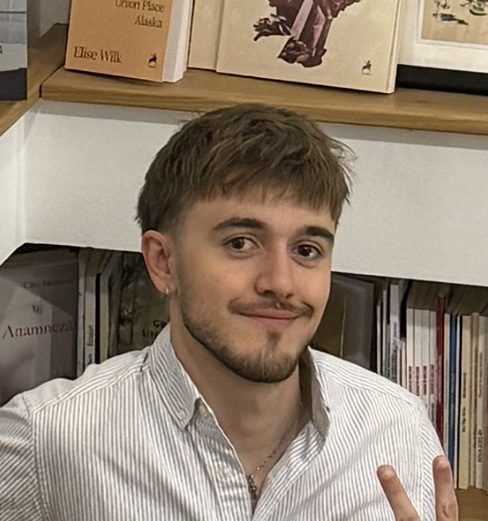
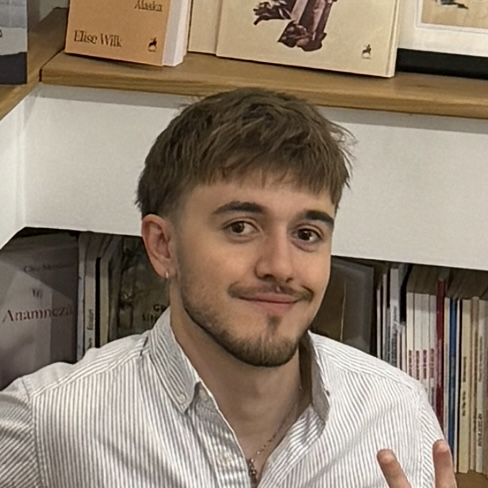
hero section improvements

diff --git a/src/sections/Hero.tsx b/src/sections/Hero.tsx
@@ -14,18 +14,18 @@ export const HeroSection = () => {
         <h1 className="font-serif text-3xl text-center mt-8 tracking-wide">
           Balteanu Andrei
         </h1>
-        <p>
+        <p className="mt-4 text-center text-white/60">
           Specialized in developing responsive web applications and engaging
           user interfaces using modern technologies.
         </p>
-        <div>
-          <button>
-            <span>Explore My Work</span>
-            <ArrowDown />
+        <div className="flex flex-col items-center mt-8 gap-4">
+          <button className="inline-flex items-center gap-2 border border-white/15 px-6 h-12 rounded-xl">
+            <span className="font-semibold">Explore My Work</span>
+            <ArrowDown className="size-4" />
           </button>
-          <button>
-            <span></span>
-            <span>Lets Connect</span>
+          <button className="inline-flex items-center gap-2 border border-white bg-white text-gray-900 h-12 px-6 rounded-xl">
+            <span>👋</span>
+            <span className="font-semibold">Lets Connect</span>
           </button>
         </div>
       </div>
